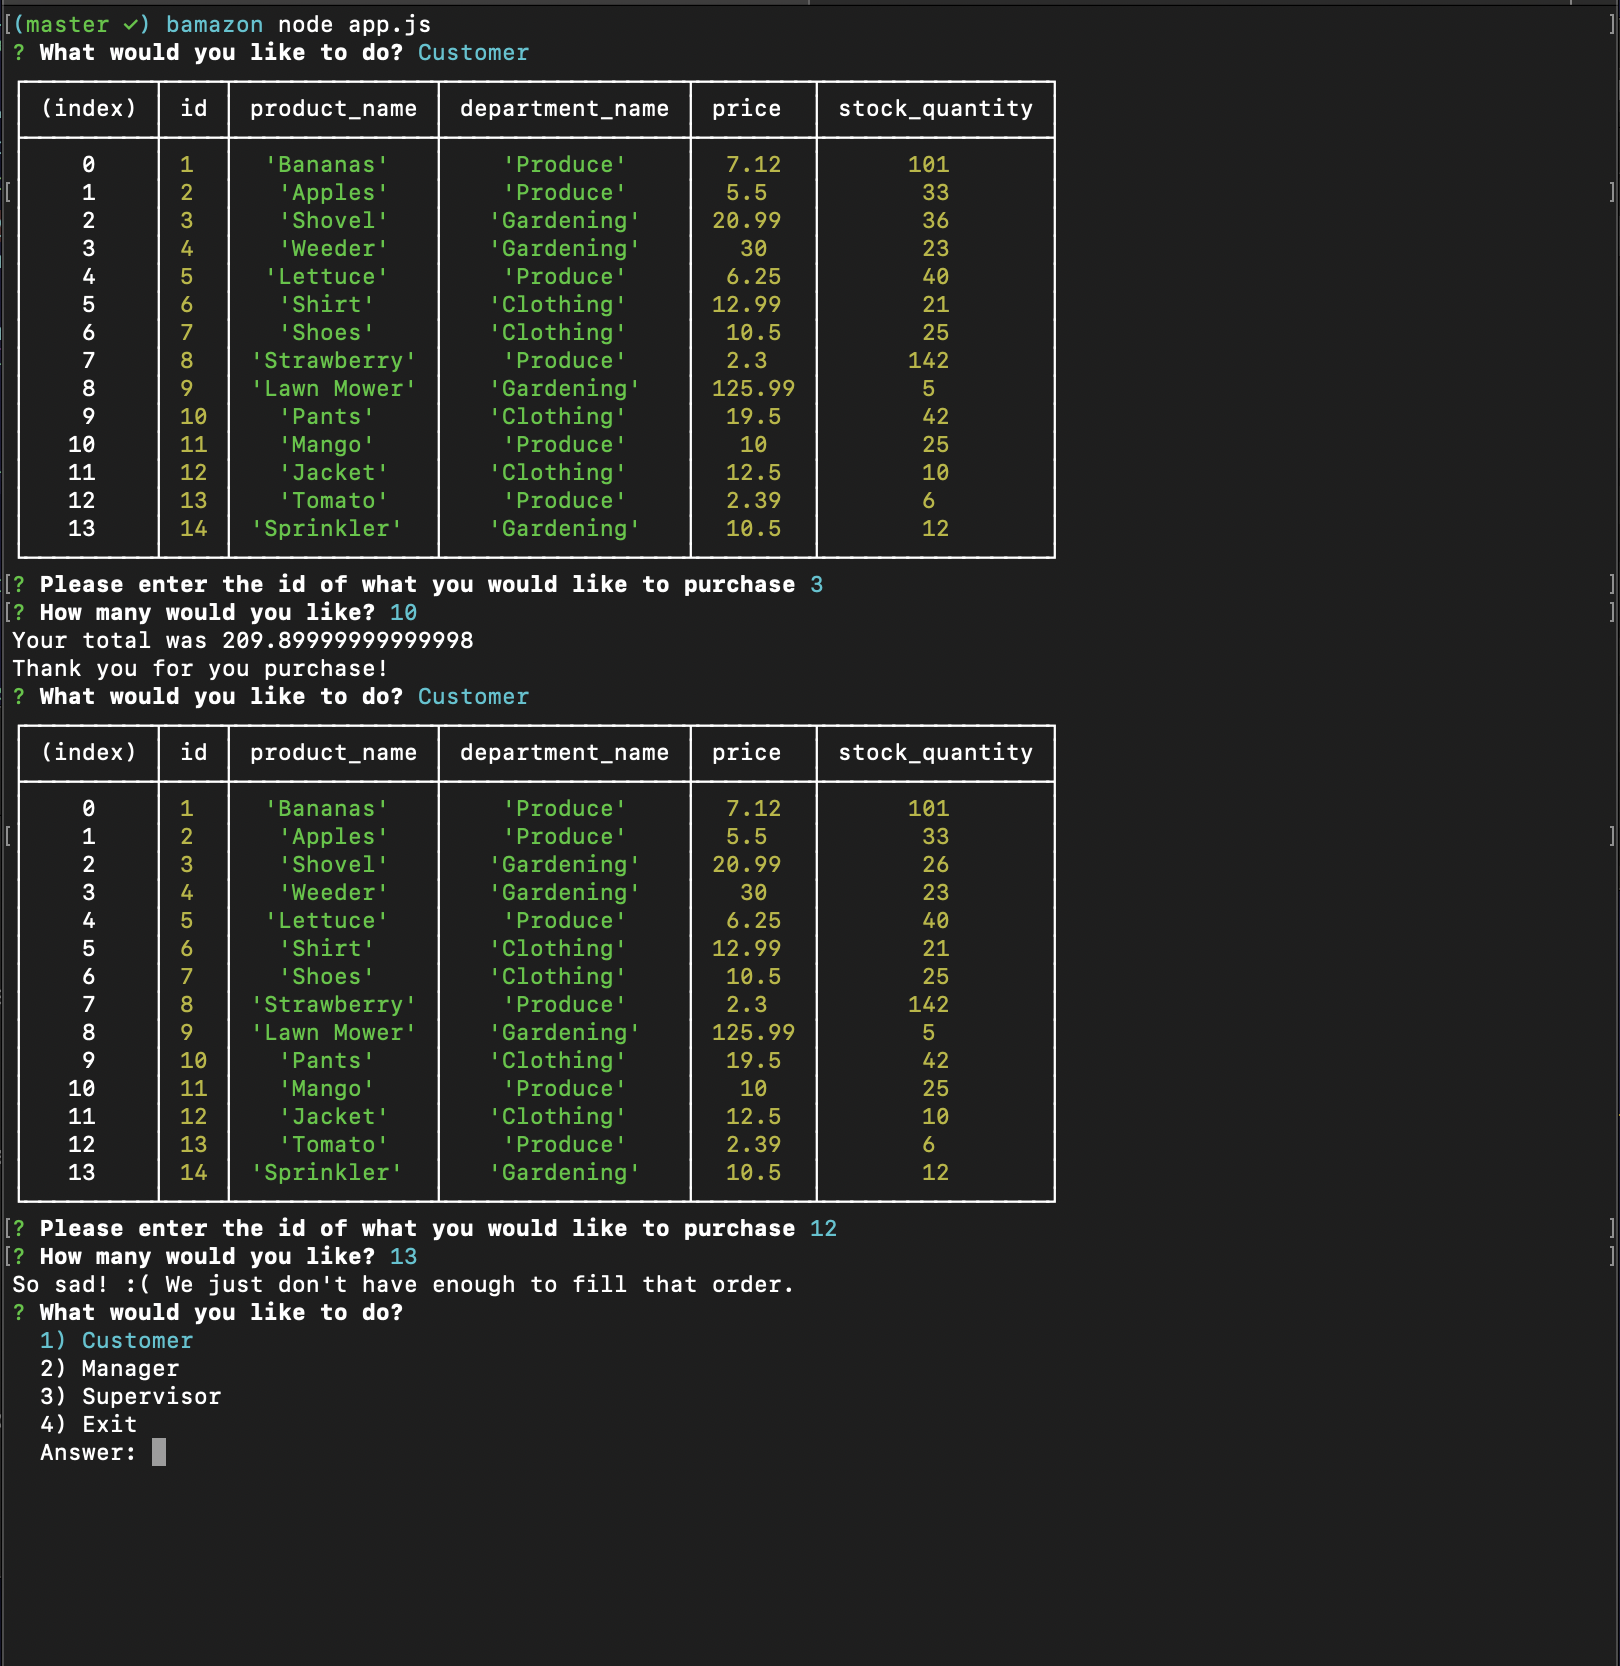
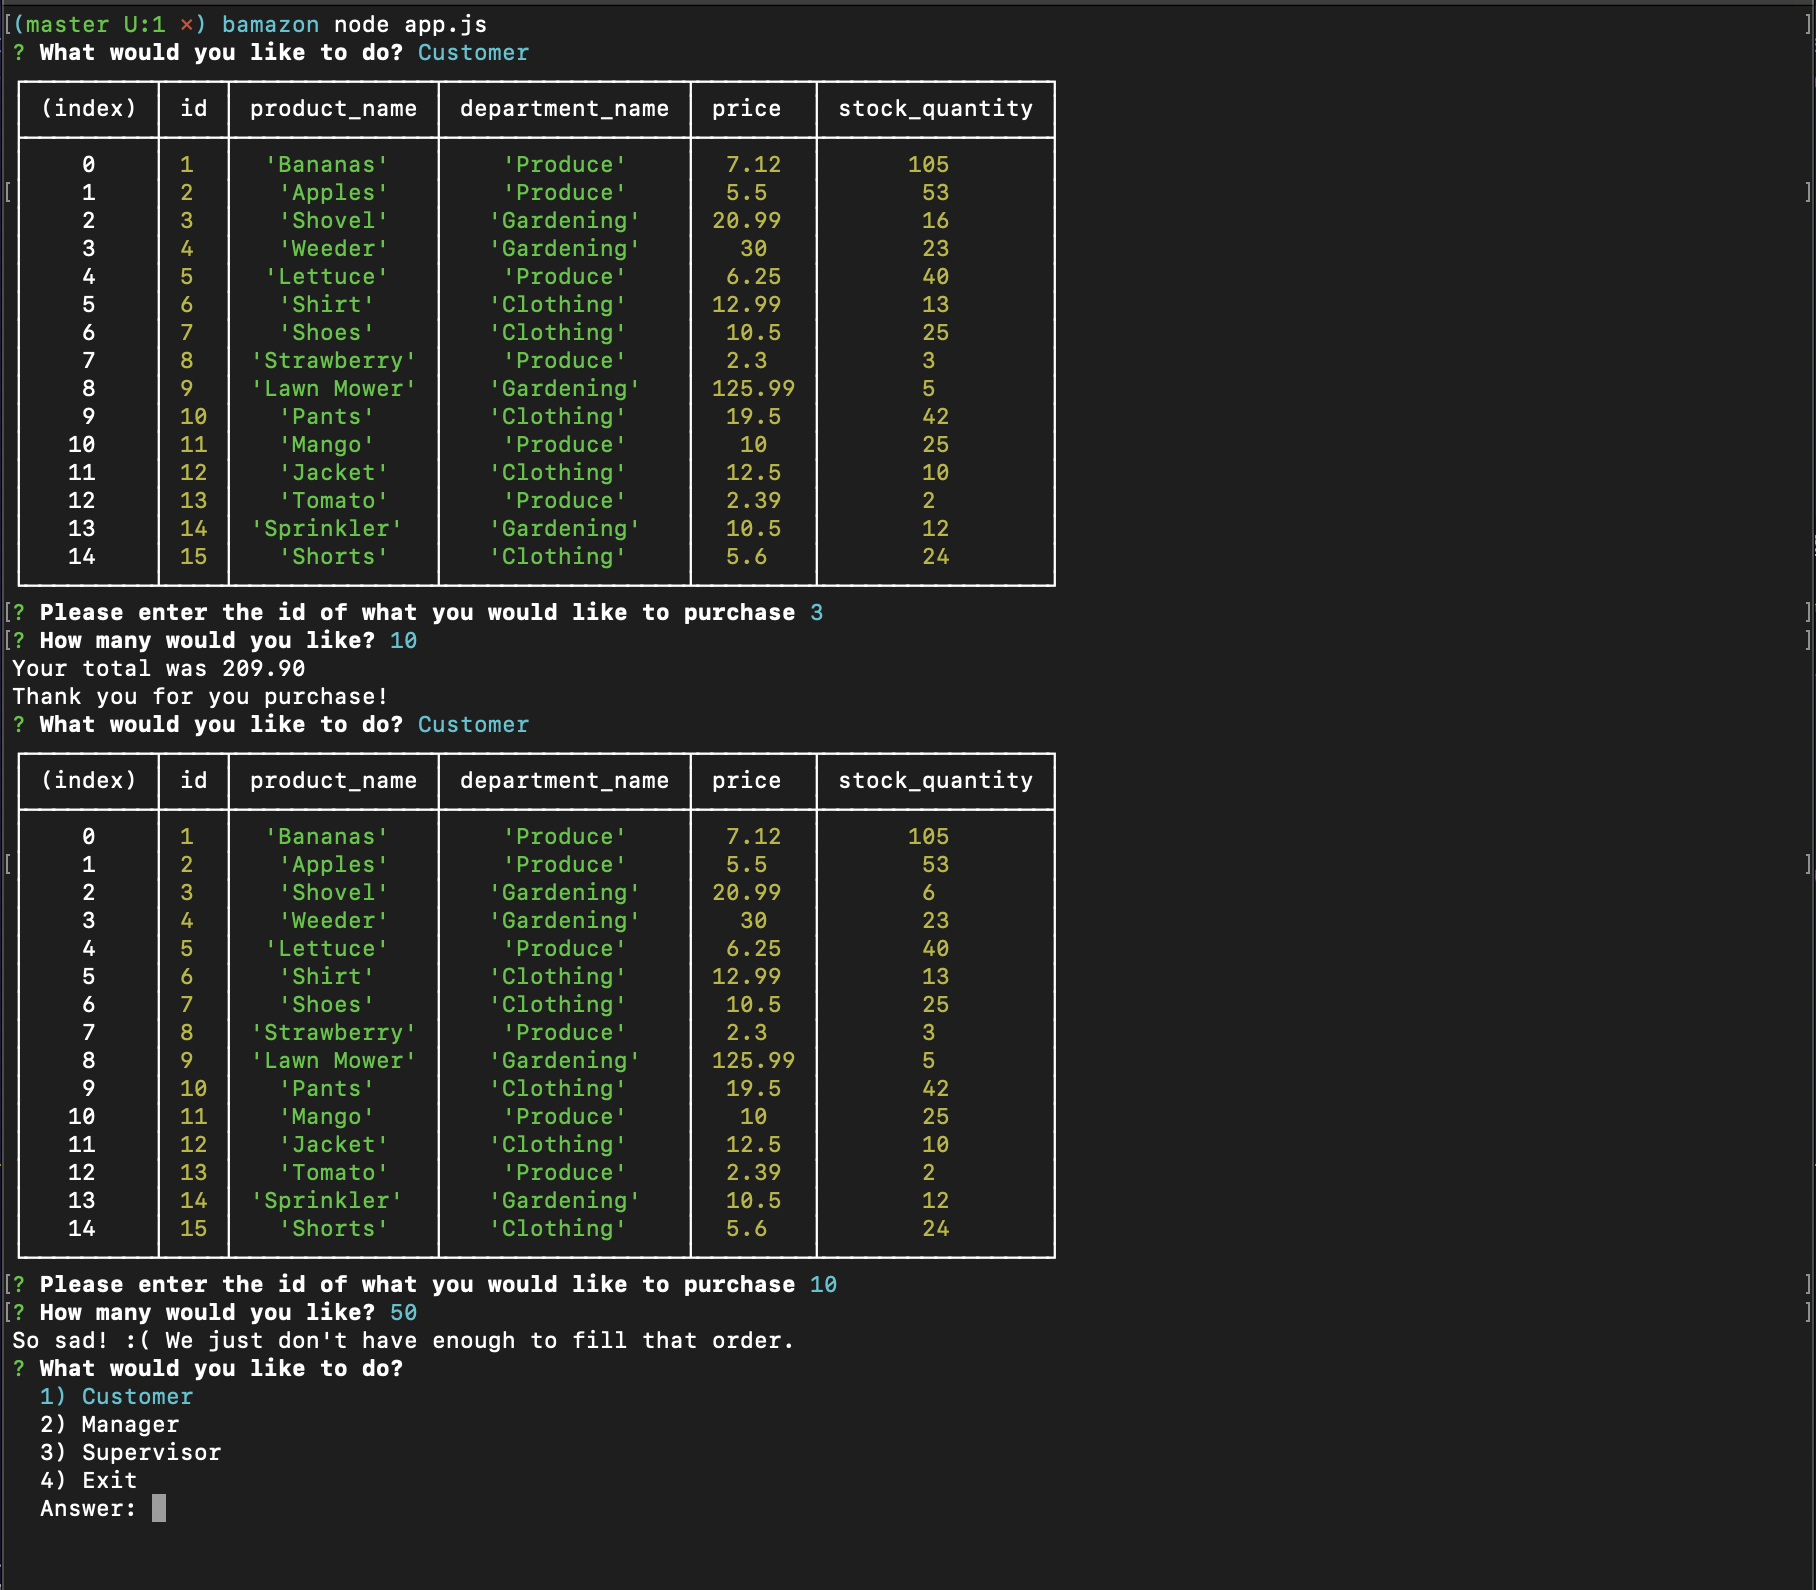
minor fix to math for customer total

Changed region(s): [[0.0, 0.0, 0.6481, 0.9553]]

diff --git a/bamazonCustomer.js b/bamazonCustomer.js
@@ -71,7 +71,7 @@ function customerPurchase() {
                                 if (error) throw err;
                                 //    * Once the update goes through, show the customer the total cost of their purchase.
 
-                                console.log("Your total was " + res[0].price * answer.quantity + "\nThank you for you purchase!")
+                                console.log("Your total was " + (res[0].price * answer.quantity).toFixed(2) + "\nThank you for you purchase!")
 
                                 start();
                             }
